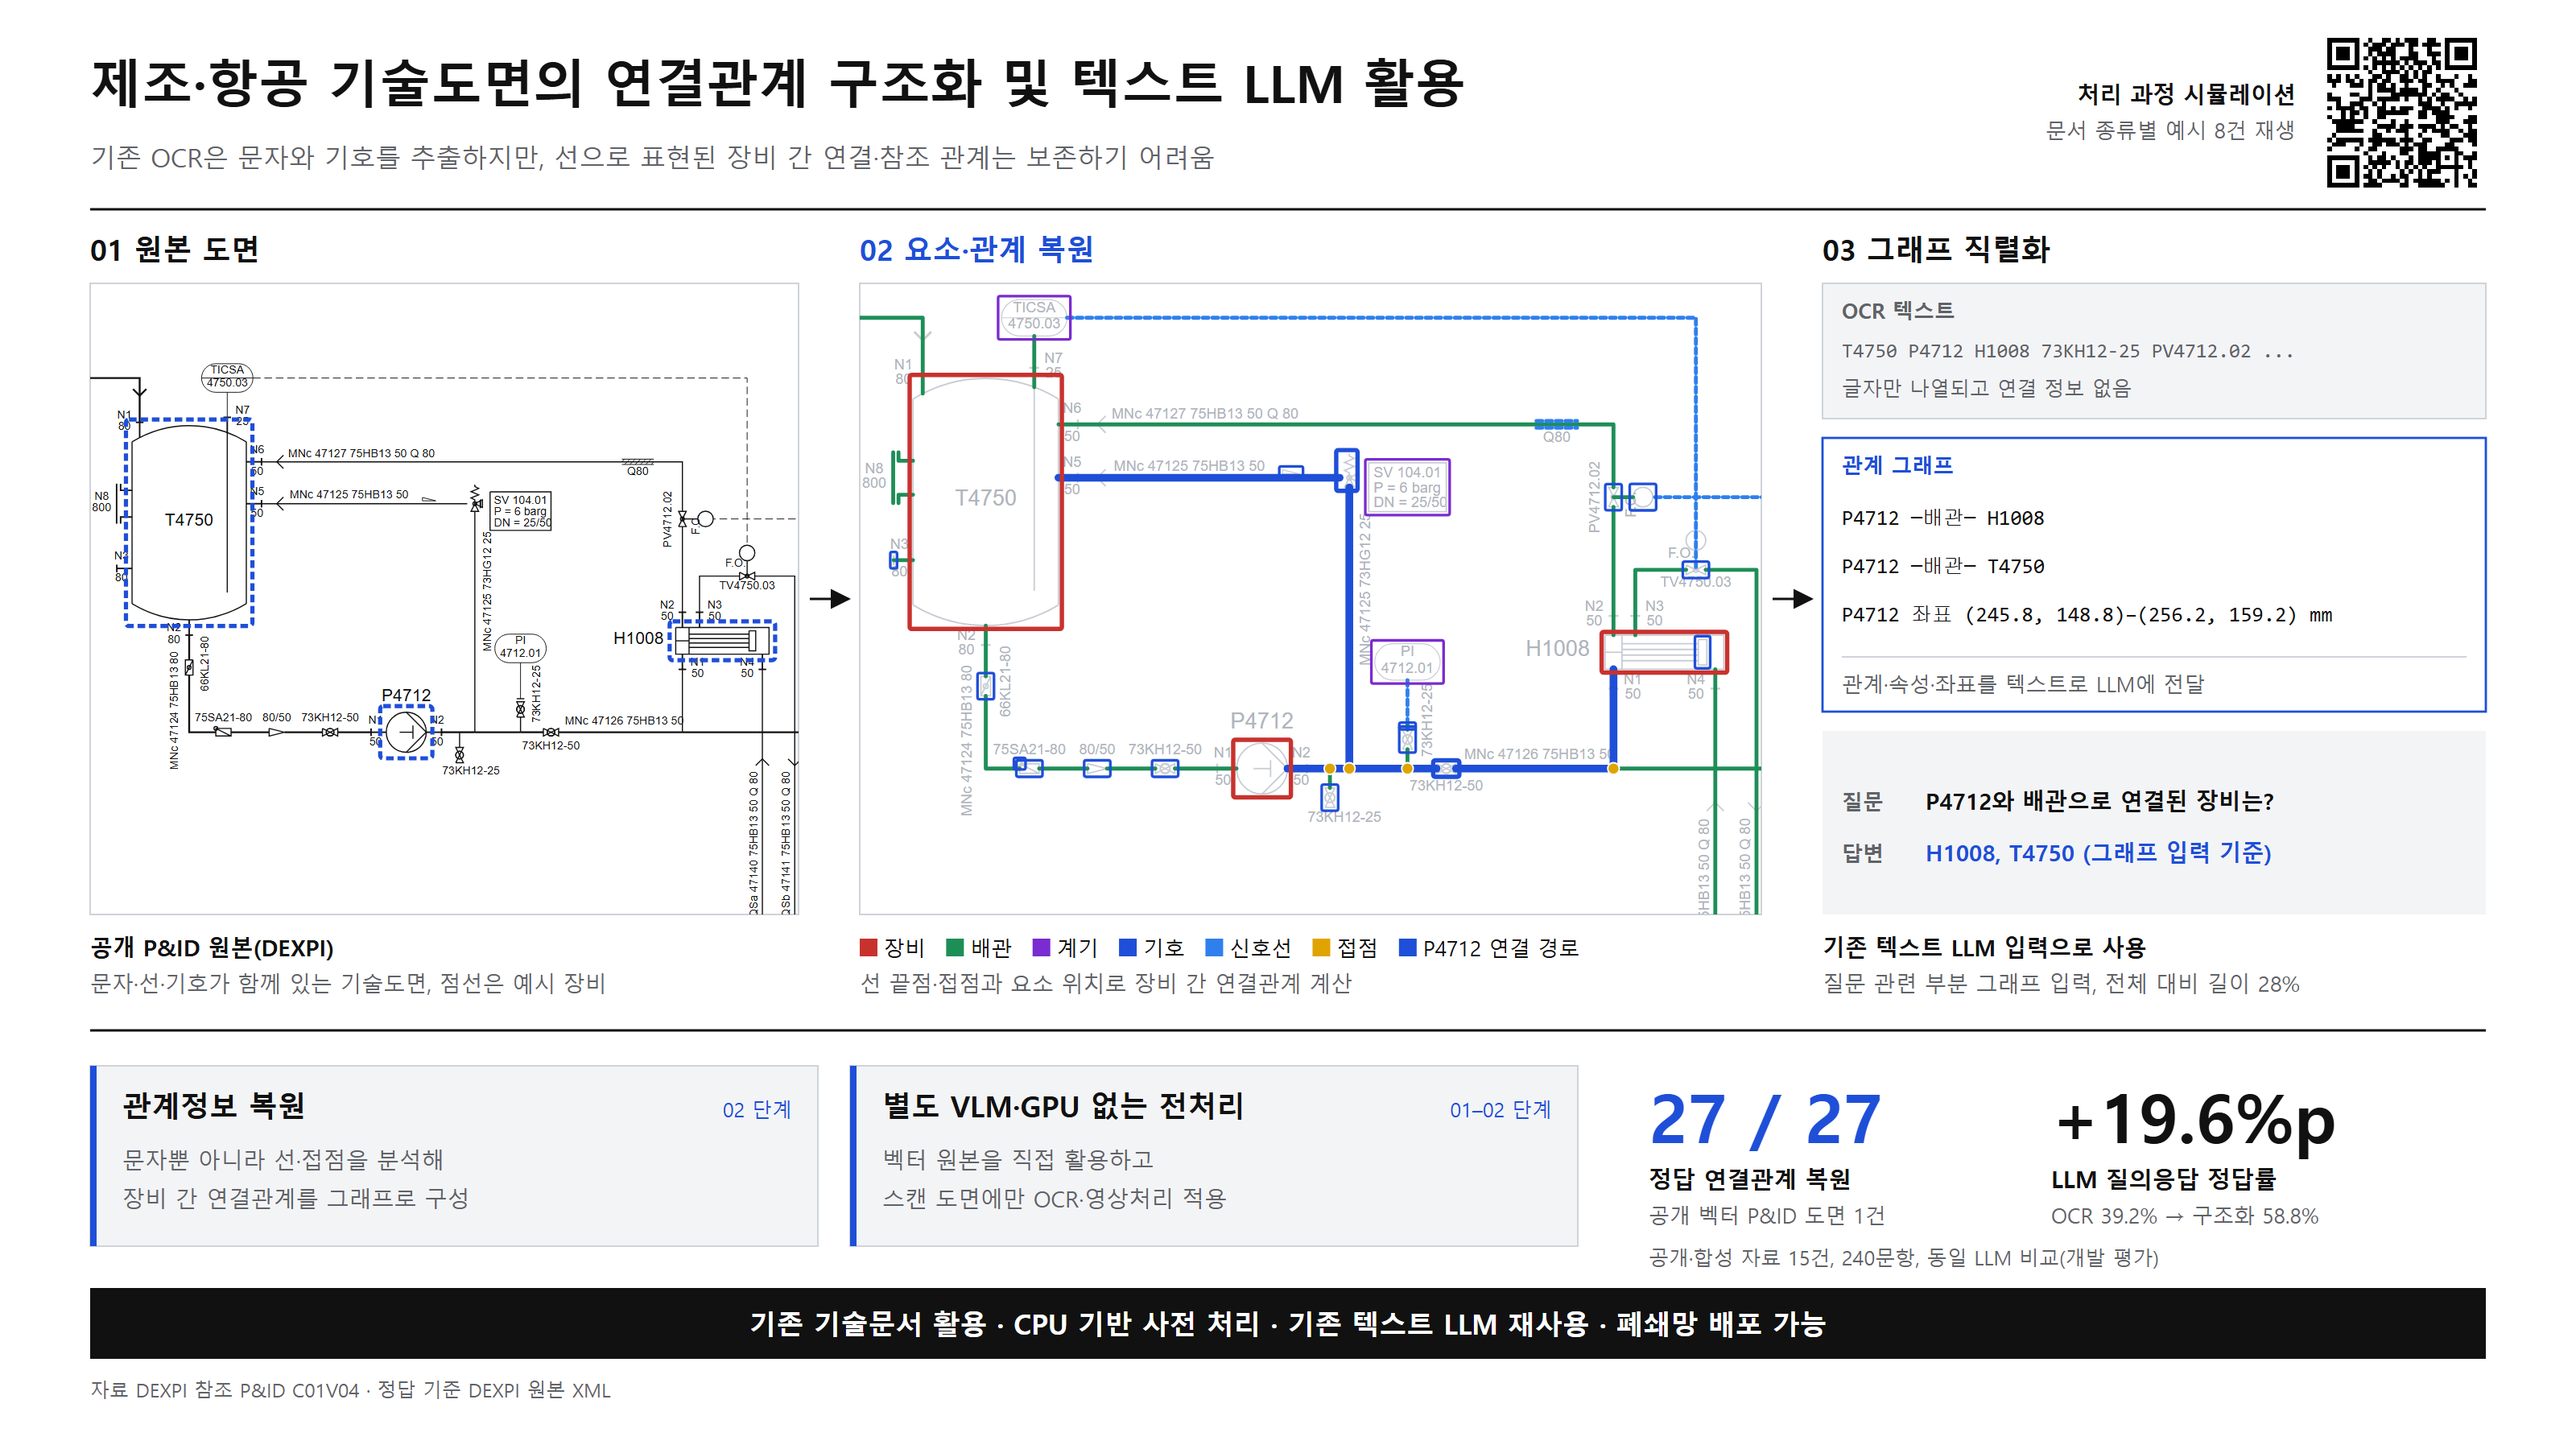
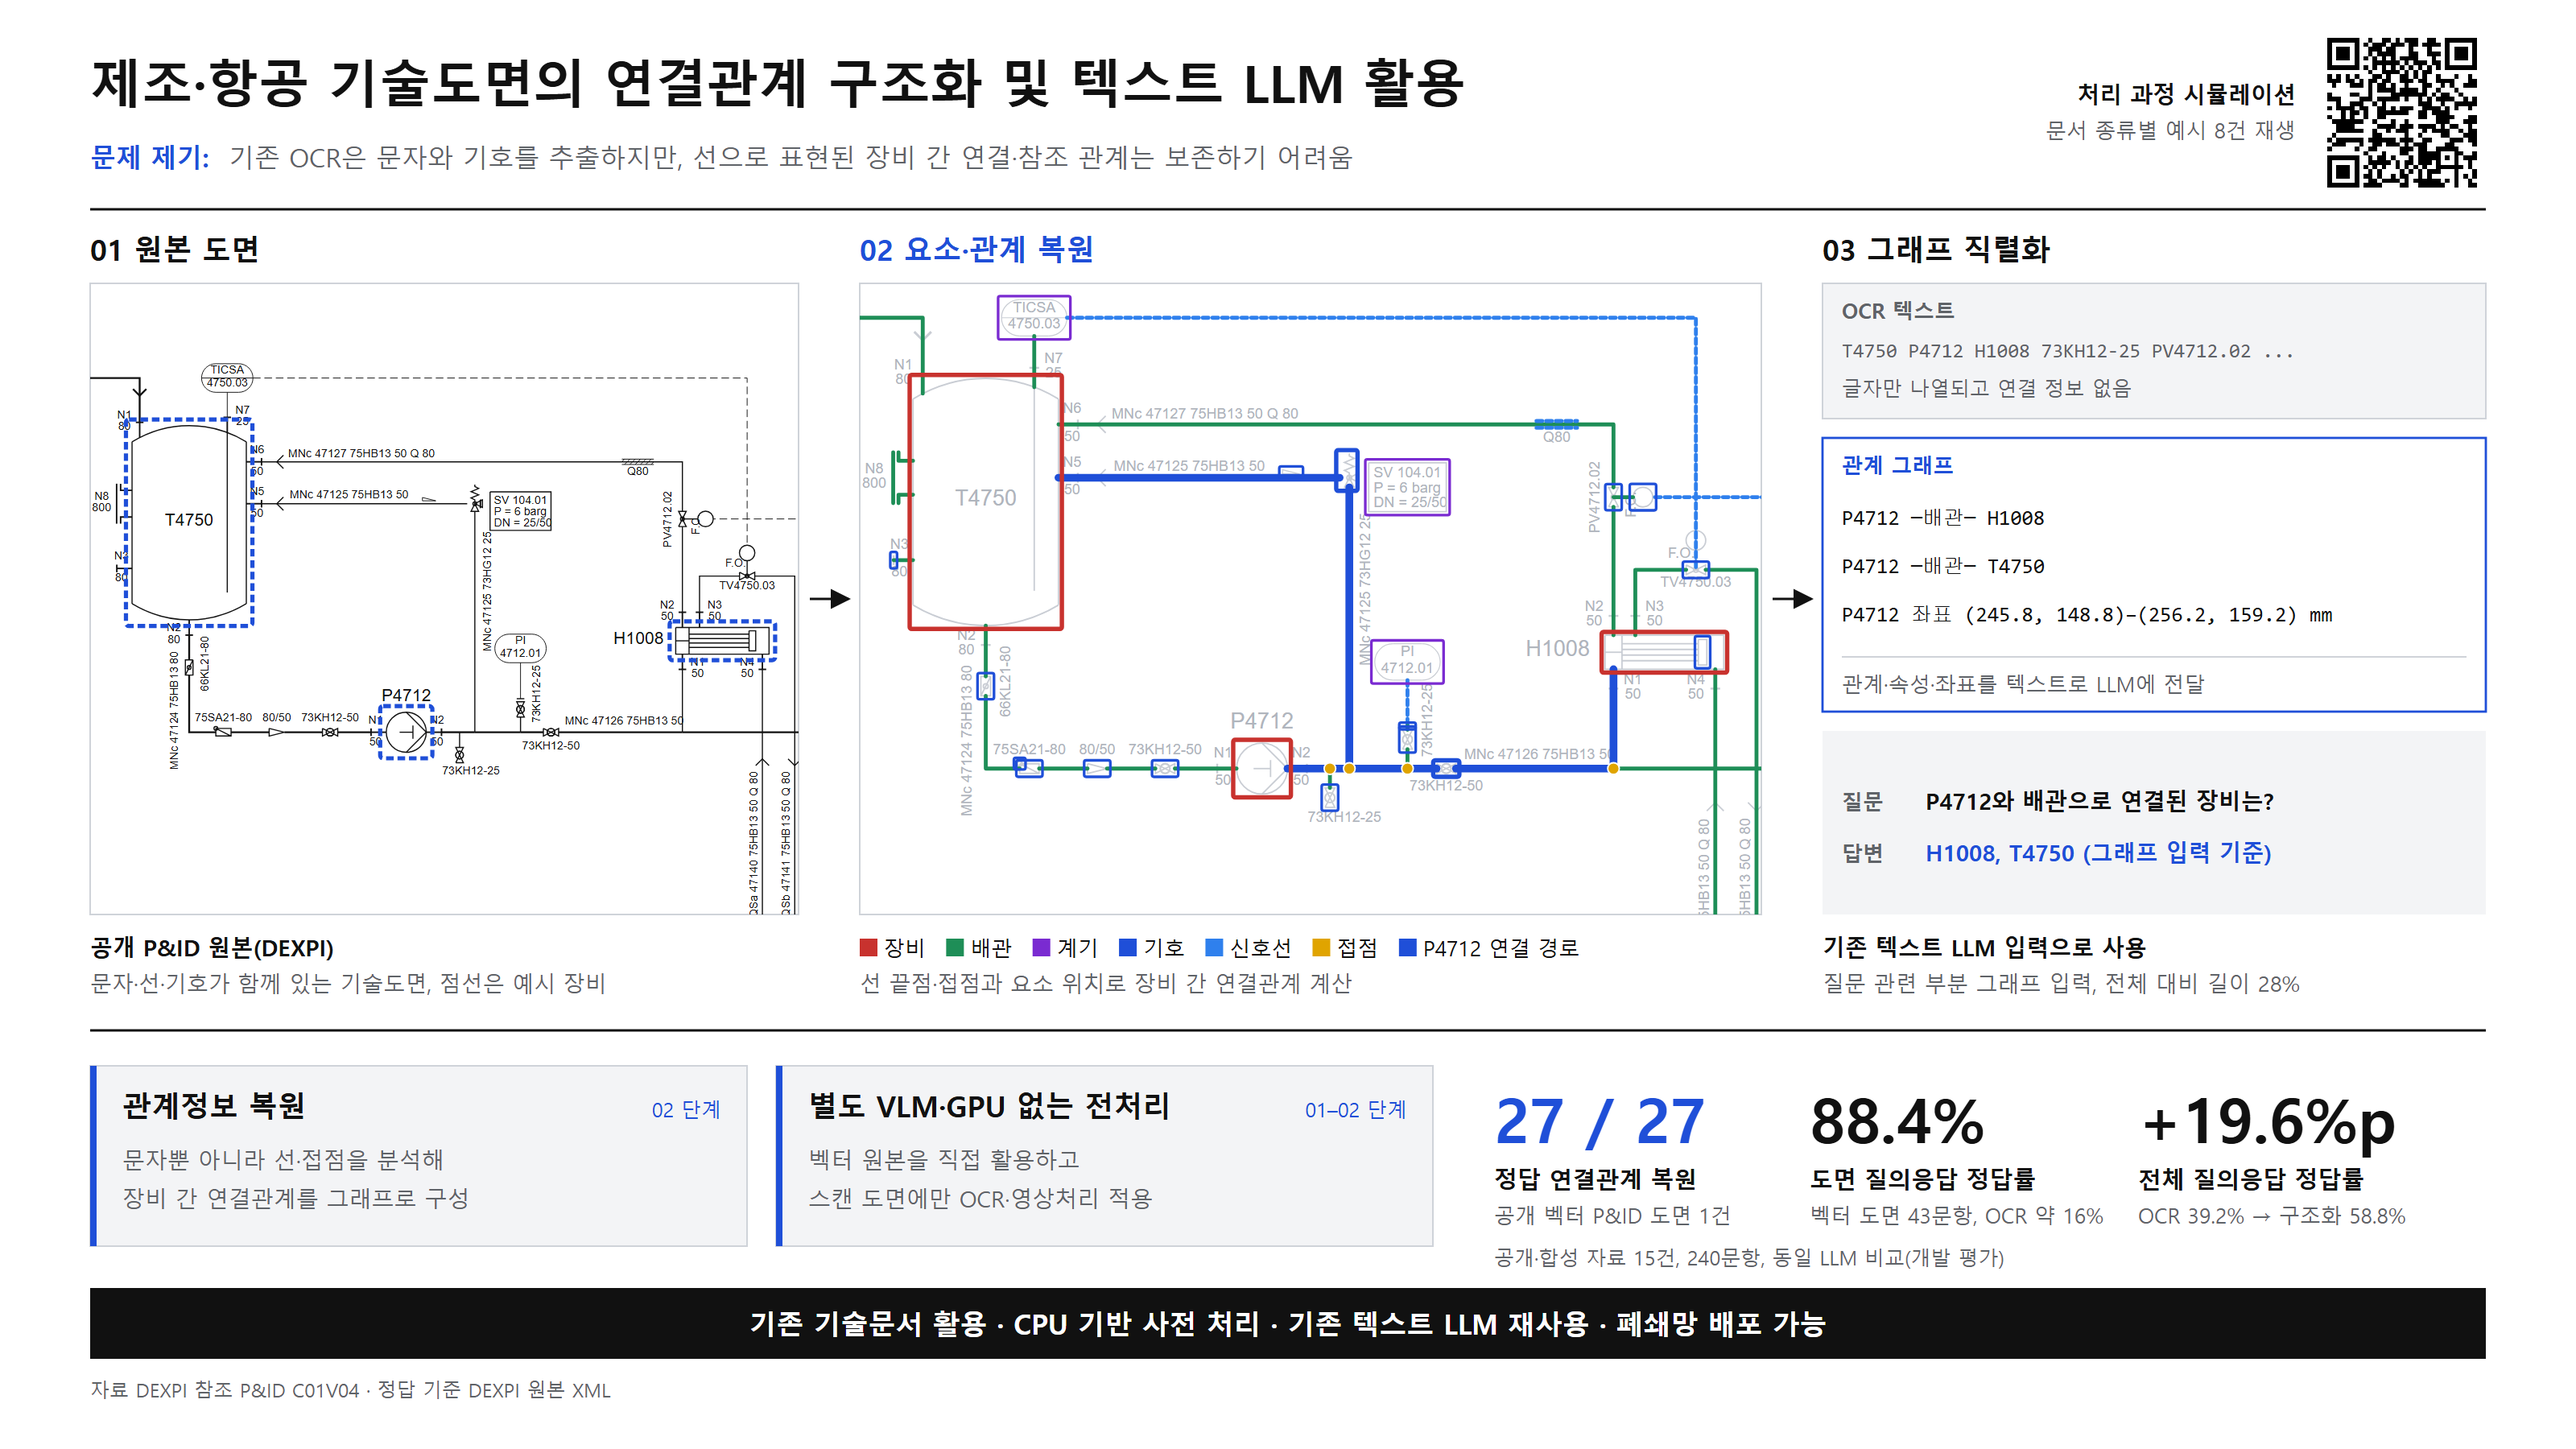
1장 슬라이드: 문제 제기 표기, 도면 질의응답 정답률 수치 추가

Changed region(s): [[0.5625, 0.7467, 0.9375, 0.8711], [0.25, 0.7467, 0.5, 0.84], [0.0312, 0.0933, 0.5312, 0.1244]]

diff --git a/docs/figures/1장-도면-관계-구조화.html b/docs/figures/1장-도면-관계-구조화.html
@@ -2,7 +2,8 @@
 <defs><marker id="ah" markerWidth="8" markerHeight="8" refX="7" refY="4" orient="auto"><path d="M0,0 L8,4 L0,8 z" fill="context-stroke"/></marker></defs>
 <rect width="1600" height="900" fill="#FFFFFF"/>
 <text x="56" y="64" font-size="32" font-weight="700" fill="#111111" text-anchor="start">제조·항공 기술도면의 연결관계 구조화 및 텍스트 LLM 활용</text>
-<text x="56" y="104" font-size="16" font-weight="400" fill="#5F6368" text-anchor="start">기존 OCR은 문자와 기호를 추출하지만, 선으로 표현된 장비 간 연결·참조 관계는 보존하기 어려움</text>
+<text x="56" y="104" font-size="16" font-weight="700" fill="#1F4FD8" text-anchor="start">문제 제기:</text>
+<text x="142" y="104" font-size="16" font-weight="400" fill="#5F6368" text-anchor="start">기존 OCR은 문자와 기호를 추출하지만, 선으로 표현된 장비 간 연결·참조 관계는 보존하기 어려움</text>
 <svg x="1440" y="18" width="104" height="104" viewBox="-2 -2 37 37"><rect x="-2" y="-2" width="37" height="37" fill="#FFFFFF"/><path d="M0 0.5h7m2 0h1m2 0h2m1 0h1m1 0h3m2 0h2m2 0h7m-33 1h1m5 0h1m1 0h1m1 0h3m1 0h3m1 0h2m1 0h4m1 0h1m5 0h1m-33 1h1m1 0h3m1 0h1m2 0h3m1 0h2m3 0h1m3 0h1m3 0h1m1 0h3m1 0h1m-33 1h1m1 0h3m1 0h1m2 0h1m1 0h4m3 0h2m2 0h3m1 0h1m1 0h3m1 0h1m-33 1h1m1 0h3m1 0h1m1 0h1m1 0h1m1 0h1m1 0h1m1 0h4m3 0h1m2 0h1m1 0h3m1 0h1m-33 1h1m5 0h1m3 0h6m1 0h1m1 0h3m1 0h2m1 0h1m5 0h1m-33 1h7m1 0h1m1 0h1m1 0h1m1 0h1m1 0h1m1 0h1m1 0h1m1 0h1m1 0h1m1 0h7m-24 1h1m2 0h4m1 0h1m1 0h1m1 0h2m-23 1h1m1 0h1m1 0h1m1 0h1m3 0h2m1 0h1m2 0h2m1 0h1m1 0h1m2 0h1m3 0h1m2 0h1m-32 1h3m1 0h2m1 0h1m1 0h2m1 0h2m2 0h3m1 0h2m2 0h4m3 0h2m-32 1h1m3 0h3m1 0h1m1 0h2m1 0h1m2 0h1m3 0h2m2 0h1m1 0h1m2 0h3m-24 1h1m1 0h4m1 0h4m1 0h1m2 0h1m3 0h1m-29 1h1m4 0h2m2 0h1m4 0h8m1 0h1m1 0h2m2 0h1m-30 1h3m4 0h3m1 0h5m1 0h1m2 0h1m1 0h1m1 0h4m2 0h1m1 0h1m-31 1h1m2 0h3m2 0h1m1 0h1m7 0h3m2 0h1m2 0h5m-33 1h1m1 0h4m1 0h2m2 0h2m1 0h1m1 0h3m2 0h4m1 0h1m1 0h1m2 0h1m-29 1h1m1 0h2m1 0h1m2 0h7m2 0h2m1 0h4m-27 1h1m2 0h1m1 0h1m2 0h1m2 0h2m7 0h2m2 0h4m3 0h2m-32 1h7m2 0h1m3 0h1m2 0h1m6 0h3m3 0h3m-31 1h4m5 0h4m1 0h3m1 0h4m1 0h1m1 0h2m2 0h1m-30 1h6m2 0h1m2 0h1m1 0h3m3 0h1m1 0h4m2 0h1m1 0h2m-32 1h1m8 0h2m5 0h1m2 0h1m4 0h2m3 0h3m-33 1h1m1 0h6m1 0h6m1 0h3m2 0h2m4 0h3m1 0h2m-32 1h3m3 0h1m2 0h2m1 0h3m1 0h1m1 0h3m4 0h2m4 0h1m-33 1h1m5 0h1m2 0h2m5 0h3m1 0h2m2 0h5m-21 1h1m3 0h1m3 0h2m2 0h5m3 0h2m2 0h1m-33 1h7m2 0h1m1 0h2m1 0h1m3 0h1m1 0h5m1 0h1m1 0h1m1 0h3m-33 1h1m5 0h1m2 0h5m1 0h1m1 0h2m1 0h3m1 0h1m3 0h1m2 0h1m-32 1h1m1 0h3m1 0h1m1 0h1m1 0h1m1 0h1m2 0h1m1 0h1m1 0h1m1 0h1m2 0h6m1 0h1m-32 1h1m1 0h3m1 0h1m2 0h1m1 0h1m4 0h1m1 0h1m1 0h1m1 0h3m3 0h1m3 0h1m-33 1h1m1 0h3m1 0h1m1 0h2m1 0h1m2 0h1m1 0h2m2 0h1m1 0h1m5 0h1m1 0h1m1 0h1m-33 1h1m5 0h1m2 0h2m1 0h4m1 0h1m1 0h6m1 0h1m1 0h1m2 0h1m-32 1h7m1 0h4m4 0h2m2 0h6m2 0h1m2 0h2" stroke="#000000" stroke-width="1" fill="none" shape-rendering="crispEdges"/></svg>
 <text x="1426" y="64" font-size="14" font-weight="700" fill="#111111" text-anchor="end">처리 과정 시뮬레이션</text>
 <text x="1426" y="86" font-size="13" font-weight="400" fill="#5F6368" text-anchor="end">문서 종류별 예시 8건 재생</text>
@@ -1258,25 +1259,28 @@
 <text x="1132" y="594" font-size="14" font-weight="700" fill="#111111" text-anchor="start">기존 텍스트 LLM 입력으로 사용</text>
 <text x="1132" y="616" font-size="13.5" font-weight="400" fill="#5F6368" text-anchor="start">질문 관련 부분 그래프 입력, 전체 대비 길이 28%</text>
 <line x1="56" y1="640" x2="1544" y2="640" stroke="#111111" stroke-width="1.4"/>
-<rect x="56" y="662" width="452" height="112" rx="0" stroke="#CFD3D9" fill="#F3F4F6" stroke-width="1"/>
+<rect x="56" y="662" width="408" height="112" rx="0" stroke="#CFD3D9" fill="#F3F4F6" stroke-width="1"/>
 <rect x="56" y="662" width="4" height="112" fill="#1F4FD8"/>
 <text x="76" y="694" font-size="18" font-weight="700" fill="#111111" text-anchor="start">관계정보 복원</text>
-<text x="492" y="694" font-size="12.5" font-weight="400" fill="#1F4FD8" text-anchor="end">02 단계</text>
+<text x="448" y="694" font-size="12.5" font-weight="400" fill="#1F4FD8" text-anchor="end">02 단계</text>
 <text x="76" y="726" font-size="14" font-weight="400" fill="#5F6368" text-anchor="start">문자뿐 아니라 선·접점을 분석해</text>
 <text x="76" y="750" font-size="14" font-weight="400" fill="#5F6368" text-anchor="start">장비 간 연결관계를 그래프로 구성</text>
-<rect x="528" y="662" width="452" height="112" rx="0" stroke="#CFD3D9" fill="#F3F4F6" stroke-width="1"/>
-<rect x="528" y="662" width="4" height="112" fill="#1F4FD8"/>
-<text x="548" y="694" font-size="18" font-weight="700" fill="#111111" text-anchor="start">별도 VLM·GPU 없는 전처리</text>
-<text x="964" y="694" font-size="12.5" font-weight="400" fill="#1F4FD8" text-anchor="end">01–02 단계</text>
-<text x="548" y="726" font-size="14" font-weight="400" fill="#5F6368" text-anchor="start">벡터 원본을 직접 활용하고</text>
-<text x="548" y="750" font-size="14" font-weight="400" fill="#5F6368" text-anchor="start">스캔 도면에만 OCR·영상처리 적용</text>
-<text x="1024" y="710" font-size="42" font-weight="700" fill="#1F4FD8" text-anchor="start">27 / 27</text>
-<text x="1024" y="738" font-size="14.5" font-weight="700" fill="#111111" text-anchor="start">정답 연결관계 복원</text>
-<text x="1024" y="760" font-size="13" font-weight="400" fill="#5F6368" text-anchor="start">공개 벡터 P&amp;ID 도면 1건</text>
-<text x="1274" y="710" font-size="42" font-weight="700" fill="#111111" text-anchor="start">+19.6%p</text>
-<text x="1274" y="738" font-size="14.5" font-weight="700" fill="#111111" text-anchor="start">LLM 질의응답 정답률</text>
-<text x="1274" y="760" font-size="13" font-weight="400" fill="#5F6368" text-anchor="start">OCR 39.2% → 구조화 58.8%</text>
-<text x="1024" y="786" font-size="12.5" font-weight="400" fill="#5F6368" text-anchor="start">공개·합성 자료 15건, 240문항, 동일 LLM 비교(개발 평가)</text>
+<rect x="482" y="662" width="408" height="112" rx="0" stroke="#CFD3D9" fill="#F3F4F6" stroke-width="1"/>
+<rect x="482" y="662" width="4" height="112" fill="#1F4FD8"/>
+<text x="502" y="694" font-size="18" font-weight="700" fill="#111111" text-anchor="start">별도 VLM·GPU 없는 전처리</text>
+<text x="874" y="694" font-size="12.5" font-weight="400" fill="#1F4FD8" text-anchor="end">01–02 단계</text>
+<text x="502" y="726" font-size="14" font-weight="400" fill="#5F6368" text-anchor="start">벡터 원본을 직접 활용하고</text>
+<text x="502" y="750" font-size="14" font-weight="400" fill="#5F6368" text-anchor="start">스캔 도면에만 OCR·영상처리 적용</text>
+<text x="928" y="710" font-size="38" font-weight="700" fill="#1F4FD8" text-anchor="start">27 / 27</text>
+<text x="928" y="738" font-size="14.5" font-weight="700" fill="#111111" text-anchor="start">정답 연결관계 복원</text>
+<text x="928" y="760" font-size="13" font-weight="400" fill="#5F6368" text-anchor="start">공개 벡터 P&amp;ID 도면 1건</text>
+<text x="1124" y="710" font-size="38" font-weight="700" fill="#111111" text-anchor="start">88.4%</text>
+<text x="1124" y="738" font-size="14.5" font-weight="700" fill="#111111" text-anchor="start">도면 질의응답 정답률</text>
+<text x="1124" y="760" font-size="13" font-weight="400" fill="#5F6368" text-anchor="start">벡터 도면 43문항, OCR 약 16%</text>
+<text x="1328" y="710" font-size="38" font-weight="700" fill="#111111" text-anchor="start">+19.6%p</text>
+<text x="1328" y="738" font-size="14.5" font-weight="700" fill="#111111" text-anchor="start">전체 질의응답 정답률</text>
+<text x="1328" y="760" font-size="13" font-weight="400" fill="#5F6368" text-anchor="start">OCR 39.2% → 구조화 58.8%</text>
+<text x="928" y="786" font-size="12.5" font-weight="400" fill="#5F6368" text-anchor="start">공개·합성 자료 15건, 240문항, 동일 LLM 비교(개발 평가)</text>
 <rect x="56" y="800" width="1488" height="44" rx="0" stroke="none" fill="#111111" stroke-width="1"/>
 <text x="800.0" y="829" font-size="17" font-weight="700" fill="#FFFFFF" text-anchor="middle">기존 기술문서 활용   ·   CPU 기반 사전 처리   ·   기존 텍스트 LLM 재사용   ·   폐쇄망 배포 가능</text>
 <text x="56" y="868" font-size="12" font-weight="400" fill="#5F6368" text-anchor="start">자료  DEXPI 참조 P&amp;ID C01V04  ·  정답 기준  DEXPI 원본 XML</text>

diff --git a/docs/figures/make_slide.py b/docs/figures/make_slide.py
@@ -102,7 +102,8 @@ def crop(x, y, w, h, body, fill="#FFFFFF"):
 # ================= 상단 =================
 L, R = 56, 1544
 t(L, 64, "제조·항공 기술도면의 연결관계 구조화 및 텍스트 LLM 활용", 32, True, maxw=1180)
-t(L, 104, "기존 OCR은 문자와 기호를 추출하지만, 선으로 표현된 장비 간 연결·참조 관계는 보존하기 어려움", 16, False, GR, maxw=1180)
+t(L, 104, "문제 제기:", 16, True, ACC)
+t(L + 86, 104, "기존 OCR은 문자와 기호를 추출하지만, 선으로 표현된 장비 간 연결·참조 관계는 보존하기 어려움", 16, False, GR, maxw=1100)
 import re as _re
 _q = open(os.path.join(HERE, 'qr-처리-과정-시뮬레이션.svg'), encoding='utf-8').read()
 _d = _re.search(r' d="([^"]+)"', _q).group(1); _n = int(_re.search(r'width="(\d+)"', _q).group(1)) // 4
@@ -162,7 +163,7 @@ t(x3, CAP + 22, "질문 관련 부분 그래프 입력, 전체 대비 길이 28%
 # ================= 하단: 차별점과 검증 =================
 YB = TOP + IH + 72
 hline(L, R, YB, INK, 1.4)
-CW = 452; CG = 20
+CW = 408; CG = 18
 cards = [("관계정보 복원", "02 단계", ["문자뿐 아니라 선·접점을 분석해", "장비 간 연결관계를 그래프로 구성"]),
          ("별도 VLM·GPU 없는 전처리", "01–02 단계", ["벡터 원본을 직접 활용하고", "스캔 도면에만 OCR·영상처리 적용"])]
 for k, (tt, tag, lines) in enumerate(cards):
@@ -173,13 +174,14 @@ for k, (tt, tag, lines) in enumerate(cards):
     t(cx + CW - 16, YB + 54, tag, 12.5, False, ACC, "end")
     for j, ln in enumerate(lines):
         t(cx + 20, YB + 86 + j * 24, ln, 14, False, GR, maxw=CW - 36)
-SX = L + 2 * CW + CG + 44
+SX = L + 2 * CW + CG + 38
 def stat(x, big, s1, s2, col):
-    t(x, YB + 70, big, 42, True, col)
+    t(x, YB + 70, big, 38, True, col)
     t(x, YB + 98, s1, 14.5, True, maxw=R - x)
     t(x, YB + 120, s2, 13, False, GR, maxw=R - x)
 stat(SX, "27 / 27", "정답 연결관계 복원", "공개 벡터 P&ID 도면 1건", ACC)
-stat(SX + 250, "+19.6%p", "LLM 질의응답 정답률", "OCR 39.2% → 구조화 58.8%", INK)
+stat(SX + 196, "88.4%", "도면 질의응답 정답률", "벡터 도면 43문항, OCR 약 16%", INK)
+stat(SX + 400, "+19.6%p", "전체 질의응답 정답률", "OCR 39.2% → 구조화 58.8%", INK)
 t(SX, YB + 146, "공개·합성 자료 15건, 240문항, 동일 LLM 비교(개발 평가)", 12.5, False, GR, maxw=R - SX)
 
 BY = YB + 160
